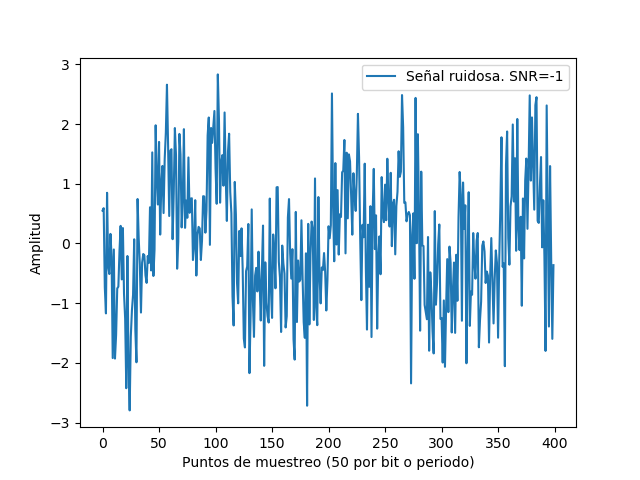
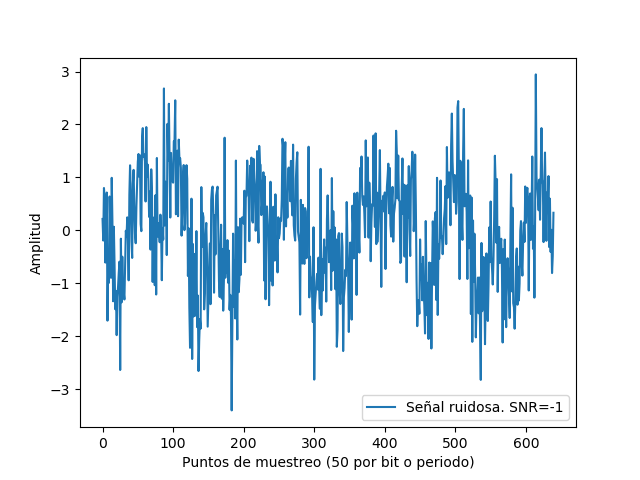
Avance_pto_1_readme

diff --git a/B71986.py b/B71986.py
@@ -47,7 +47,7 @@ plt.legend()
 plt.show()
 
 #Definición de frecuencia de muestreo:
-fm = p/T #200 puntos por periodo
+fm = p/T #80 puntos por periodo, 400 kHz
 
 # Creación de la línea temporal para toda la señal a modular:
 t = np.linspace(0, N*T, N*p)
@@ -59,8 +59,8 @@ senal = np.zeros(N*p)
 for i, b in enumerate(bits):
   senal[i*p:(i+1)*p] = (2*b-1) * seno #El término (2*b-1) hace que los 1 en bits sigan siendo 1 y los 0 pasen a -1. De esta forma, en los ceros se coloca un seno negativo y en los 1 un seno positivo.
 
-#Visualización de los primeros 6 bits modulados
-pb = 6
+#Visualización de los primeros 8 bits modulados
+pb = 8
 plt.figure()
 plt.plot(senal[0:pb*p], label='Señal modulada en BPSK')
 plt.xlabel('Puntos de muestreo (50 por bit o periodo)')
@@ -95,10 +95,9 @@ valores_BER = []
 #Gráfica antes del canal ruidoso:
 fw, PSD = signal.welch(senal, fm, nperseg=1024)
 plt.figure()
-plt.semilogy(fw, PSD, label='SNR={}'.format(SNR))
+plt.semilogy(fw, PSD)
 plt.xlabel('Frecuencia [Hz]')
 plt.ylabel('Densidad espectral de potencia [V**2/Hz]')
-plt.legend()
 plt.show()
 
 #La gráfica de densidad después del canal ruidoso está dentro del for para cada SNR.
@@ -121,7 +120,7 @@ for SNR in valores_SNR:
     Rx = senal + ruido
 
     # Visualización de los primeros cinco bits de la señal ruidosa:
-    pb = 5
+    pb = 8
     plt.figure()
     plt.plot(Rx[0:pb*p],label='Señal ruidosa. SNR={}'.format(SNR))
     plt.xlabel('Puntos de muestreo (50 por bit o periodo)')

diff --git a/README.md b/README.md
@@ -4,9 +4,16 @@ Estudiante: Mauricio Céspedes Tenorio - B71986
 1. Crear un esquema de modulación BPSK para los bits presentados. Esto implica asignar una forma de onda sinusoidal normalizada (amplitud unitaria) para cada bit y luego una concatenación de todas estas formas de onda.  
 R\ En la modulación **BPSK** (siglas del inglés *Binary Phase Shift Keying*, en español *Modulación por desplazamiento de fase*) se envía una forma de onda sinusoidal para el bit 1 y una sinusoidal negada (-seno) para el bit 0.  
 Para conseguir esto, primero se extrajeron los datos de bits proporcionados en el archivo *bits10k.csv* con ayuda de la función *genfromtxt('bits10k.csv', delimiter='\n')*, indicando que el delimitador es una nueva línea. Posteriomente, se contaron la cantidad de datos ("bits") que se dieron en el archivo.  
-Para la modulación, se empezó por definir la frecuencia de 5 kHz de la onda portadora y su periodo de símbolo (igual a un periodo completo que es 1/T). Asimismo, se consideró que 80 puntos de muestreo para cada periodo era suficiente. Con esto  definido, se creó la onda portadora sinusoidal, la sinusoidal negada no se creó al sólo ser la señal seno multiplicacada por -1. Dicha portadora se muestra a continuación:  
+Para la modulación, se empezó por definir la frecuencia de 5 kHz de la onda portadora y su periodo de símbolo (igual a un periodo completo que es 1/T). Asimismo, se consideró que 80 puntos de muestreo para cada periodo (equivalente a cada bit) era suficiente. Con esto  definido, se creó la onda portadora sinusoidal, la sinusoidal negada no se creó al sólo ser la señal seno multiplicacada por -1. Dicha portadora se muestra a continuación:  
 <p align="center">
   <img src="Imagenes/Portadora.png"/>
   <br>
   Figura 1. Señal sinusoidal que funcionará como onda portadora.
+</p>  
+A continuación, se detalló que la frecuencia de muestreo es de 80 puntos por periodo (que es equivalente a 400 kHz). Para la creación de la señal BPSK, se creó el vector temporal total *t*, que equivalente al periodo de la portadora multiplicacado por la cantidad de bits. Luego se creó un array del tamaño necesario y, mediante un **for**, se colocó una onda sinusoidal en donde existiera un 1 y una sinusoidal negada en donde hubiera un 0. Para ello, se recorrió la variable *senal* para la onda modulada de 50 en 50 puntos y se utilizó el código *(2*b-1)* para cambiar los 0 en los bits por un -1; de esta forma, cuando hubiera un 0, se inserta un -seno en la onda modulada, y un seno en caso de encontrar un 1.  
+La onda modulada en BPSK para los primeros 8 bits se muestra en la siguiente Figura. En el archivo CSV se puede observar que dichos bits son: 0, 1, 0, 1, 0, 1, 1, 0; lo cual se corresponde con lo observado en la Figura, interprendo así que la modulación es correcta.  
+<p align="center">
+  <img src="Imagenes/Senal_BPSK.png"/>
+  <br>
+  Figura 2. Señal modulada en BPSK para los primeros 8 bits.
 </p>  
